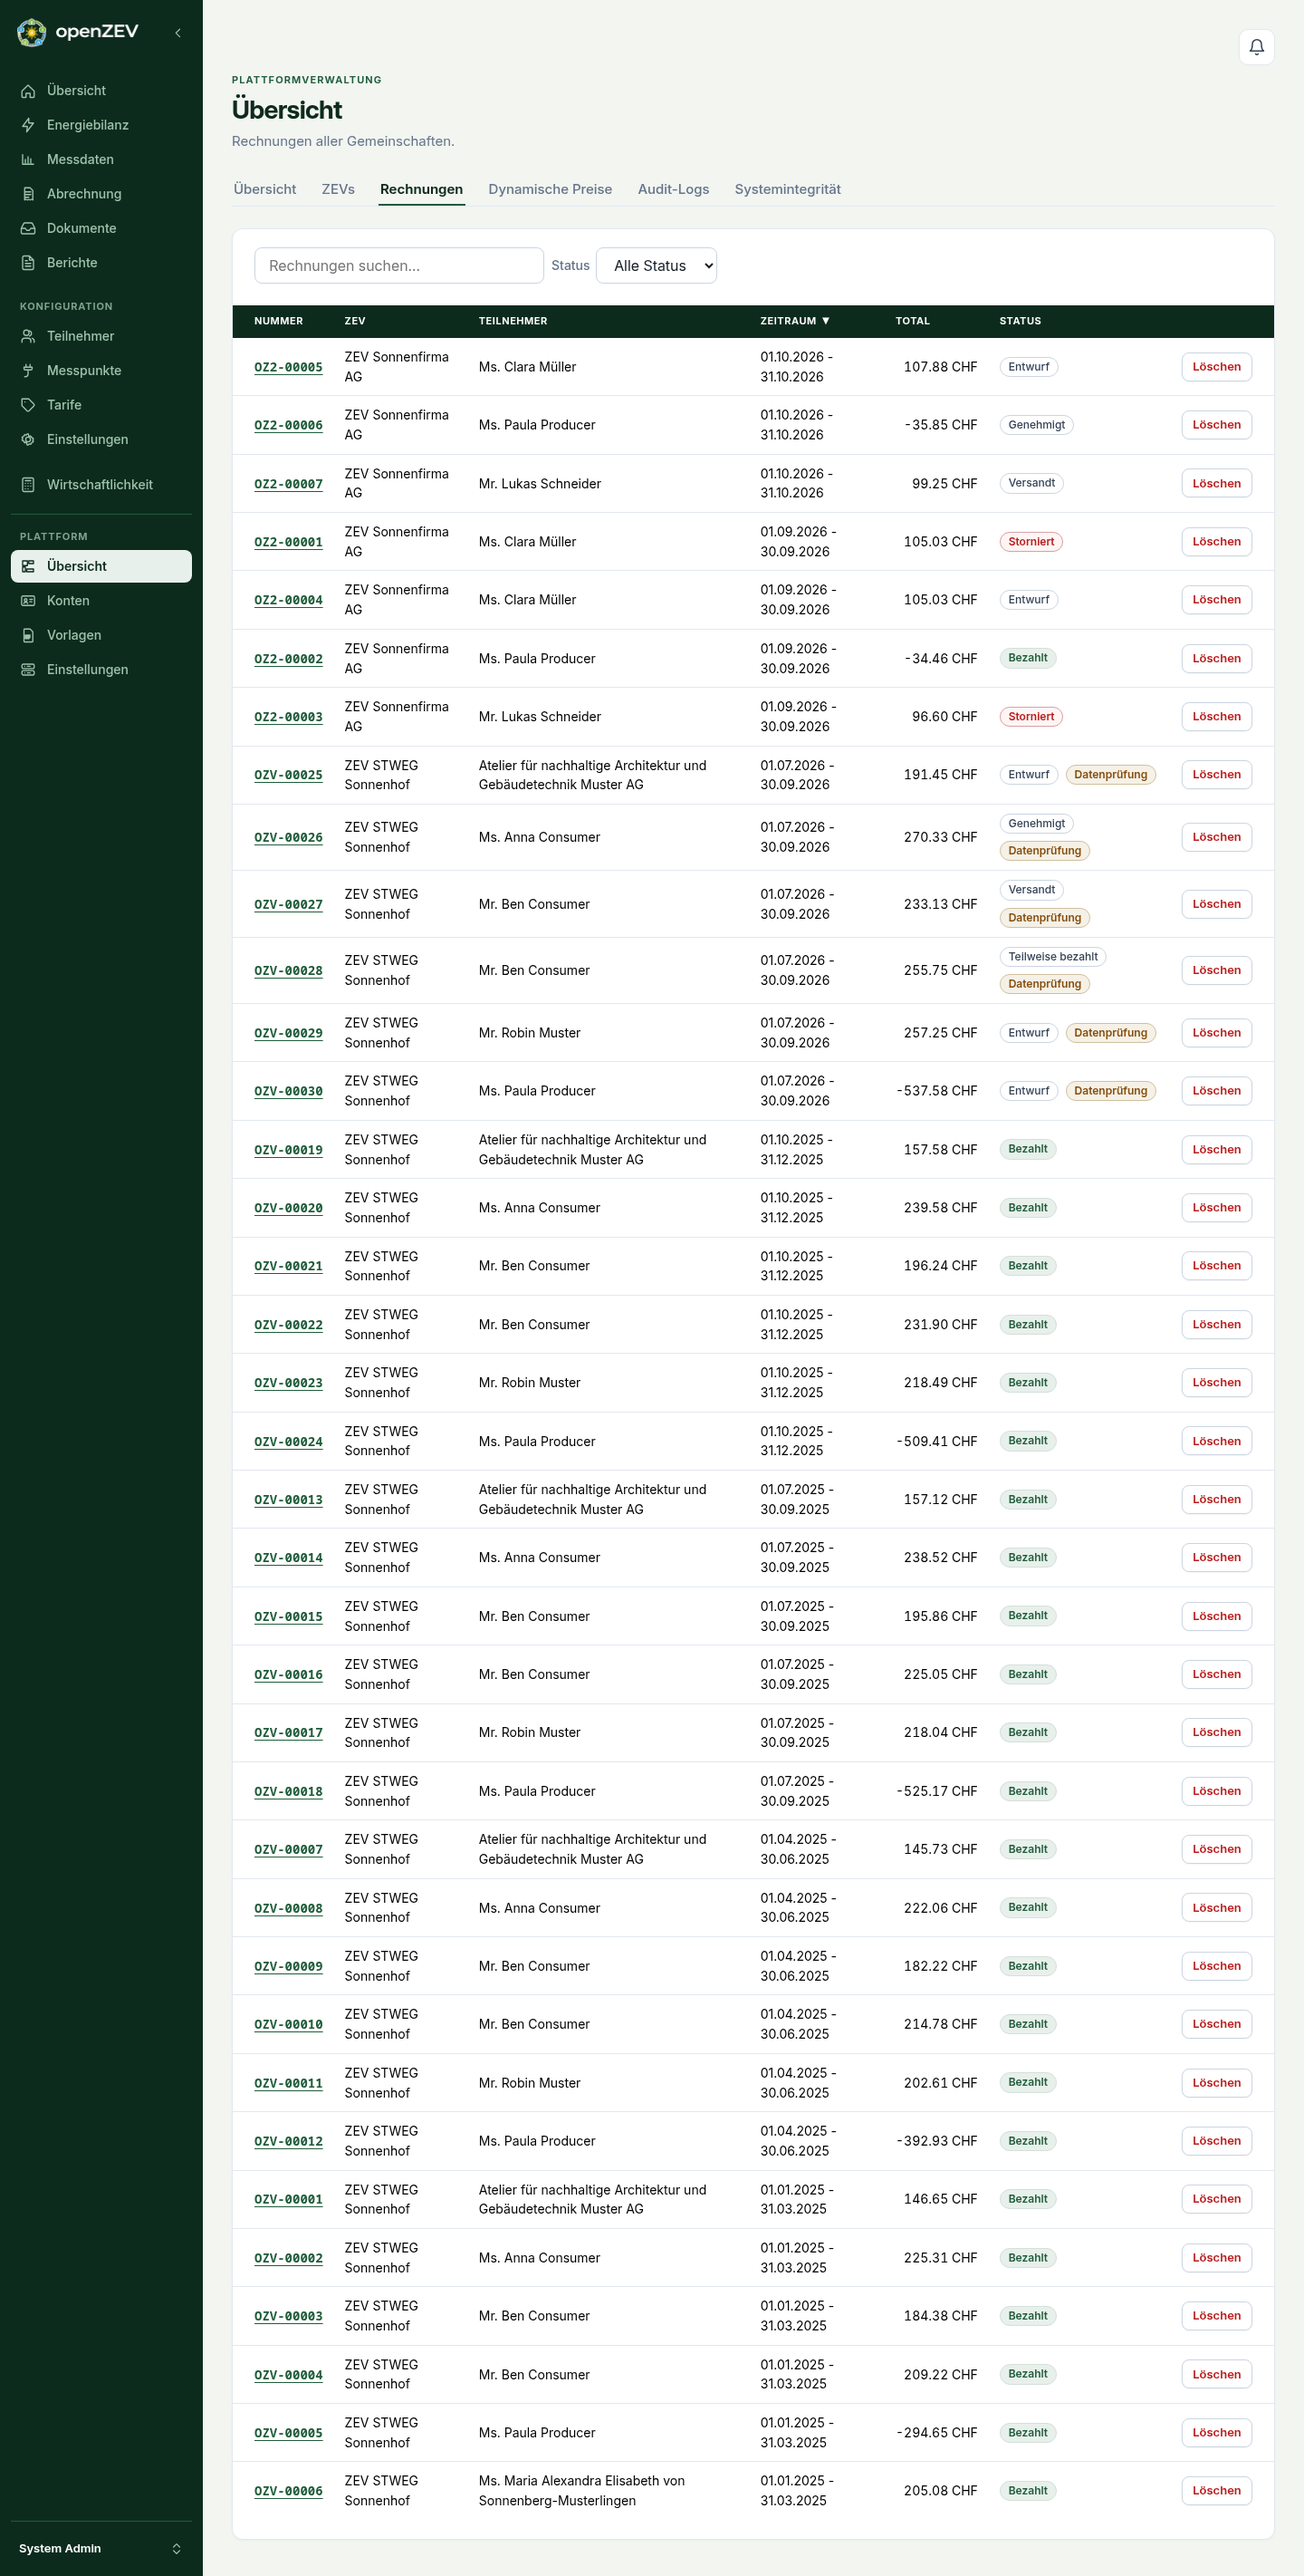
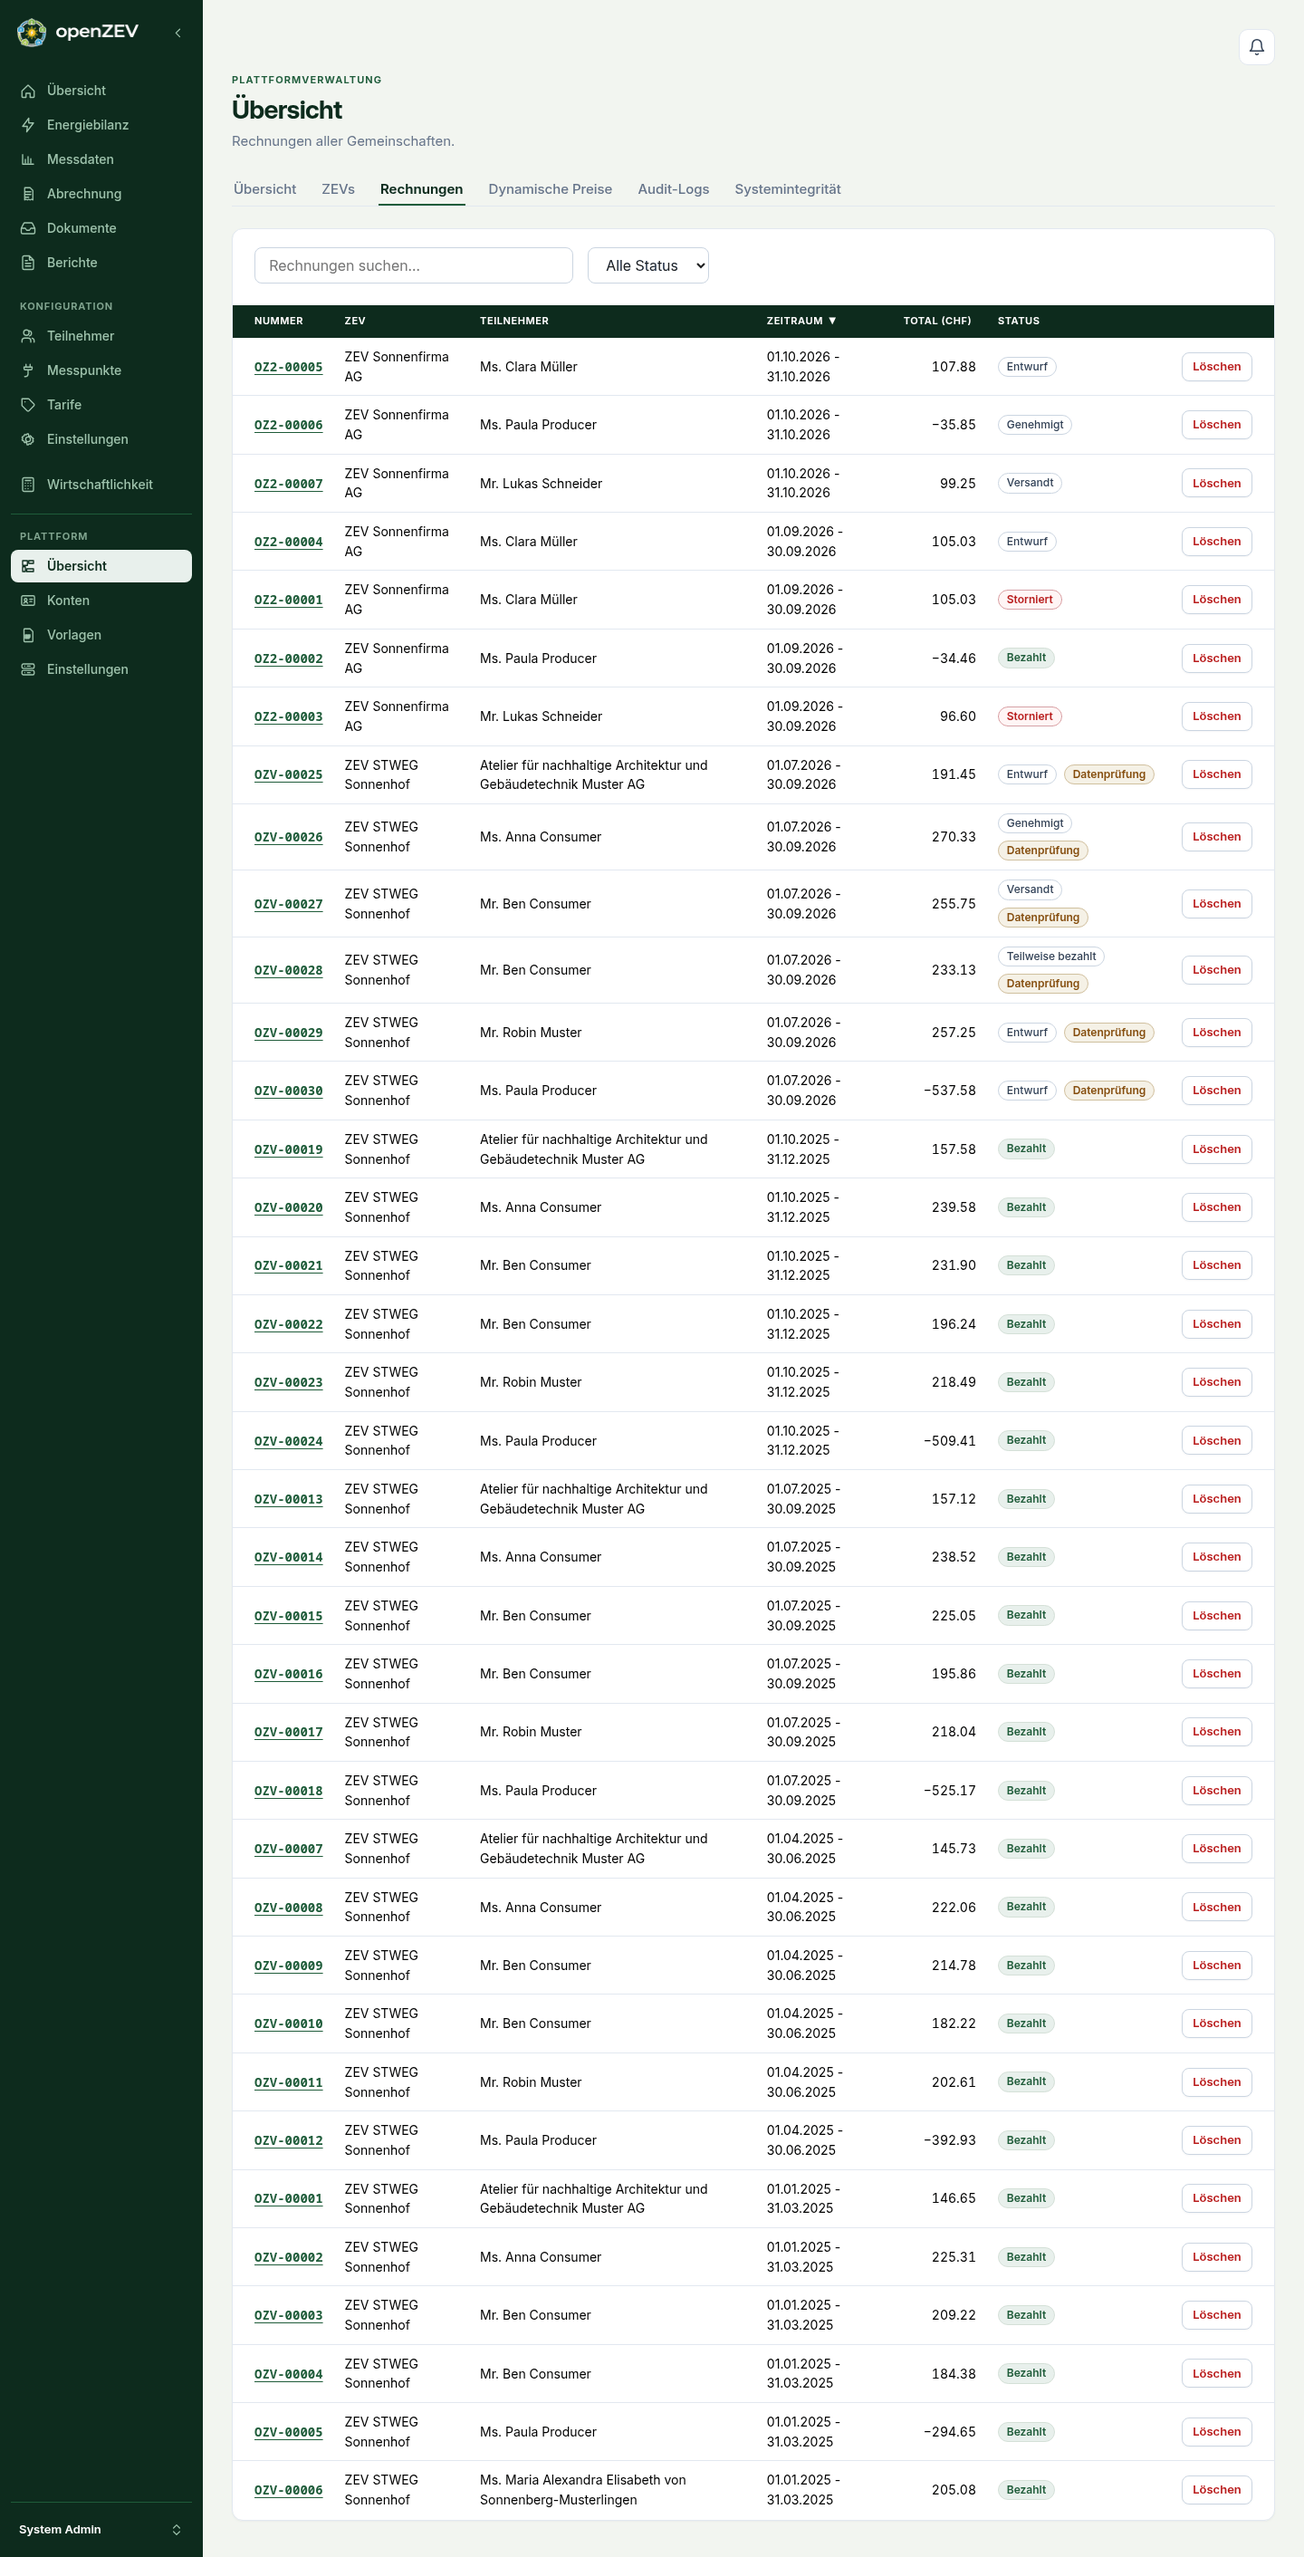
fix(invoices): name CHF in the admin total header, not each cell
The admin invoice list printed the raw API string with a trailing
currency ("129.00 CHF") in every row. It now follows the period table and
the invoice PDF: the header says "Total (CHF)" and cells show the bare
amount through InvoiceAmount (typographic minus for credit totals).

While here: the period cell reuses the memoised period_display, the
redundant numeric:false meta is dropped, and the filters use the shared
.list-filters row instead of inline styles (with aria-labels on the
search and status controls). The test checks the amount cell once and
order/search by invoice number, without the needless 20 ms sleep.

diff --git a/frontend/src/pages/AdminInvoicesPage.tsx b/frontend/src/pages/AdminInvoicesPage.tsx
@@ -9,7 +9,7 @@ import { deleteInvoice, fetchInvoices } from '../lib/api/invoices'
 import { formatApiError } from '../lib/api/errors'
 import { queryKeys } from '../lib/api/queryKeys'
 import { useToast } from '../lib/toast'
-import { InvoiceActionButton, InvoiceLink, InvoiceStatusBadge } from '../components/InvoicePresentation'
+import { InvoiceActionButton, InvoiceAmount, InvoiceLink, InvoiceStatusBadge } from '../components/InvoicePresentation'
 import type { Invoice } from '../types/api'
 
 // Stable empty array so the useMemo below keeps a consistent dependency reference.
@@ -96,13 +96,13 @@ export function AdminInvoicesContent() {
             {
                 accessorKey: 'period_sort',
                 header: t('adminInvoices.period'),
-                cell: (ctx) => `${formatShortDate(ctx.row.original.period_start, settings)} - ${formatShortDate(ctx.row.original.period_end, settings)}`,
+                cell: (ctx) => ctx.row.original.period_display,
             },
             {
                 accessorKey: 'total_value',
                 header: t('adminInvoices.total'),
                 meta: { numeric: true },
-                cell: (ctx) => `${ctx.row.original.total_chf} CHF`,
+                cell: (ctx) => <InvoiceAmount value={ctx.row.original.total_chf} currency={false} />,
             },
             {
                 accessorKey: 'status',
@@ -130,7 +130,6 @@ export function AdminInvoicesContent() {
                 id: 'actions',
                 header: '',
                 enableSorting: false,
-                meta: { numeric: false },
                 cell: (ctx) => (
                     <InvoiceActionButton action={{
                         label: t('adminInvoices.delete'),
@@ -141,7 +140,7 @@ export function AdminInvoicesContent() {
                 ),
             },
         ],
-        [t, settings, handleDelete, deleteMutation.isPending],
+        [t, handleDelete, deleteMutation.isPending],
     )
 
     return (
@@ -153,34 +152,31 @@ export function AdminInvoicesContent() {
                     <p className="muted">{t('adminInvoices.empty')}</p>
                 )}
                 {invoices.length > 0 && (
-                    <div className="page-stack sheet-table-body" style={{ width: '100%' }}>
-                        <div className="actions-row" style={{ flexWrap: 'wrap' }}>
+                    <div className="page-stack sheet-table-body">
+                        <div className="list-filters">
                             <input
                                 type="search"
                                 placeholder={t('adminInvoices.quickFilterPlaceholder')}
+                                aria-label={t('adminInvoices.quickFilterPlaceholder')}
                                 value={search}
                                 onChange={(e) => setSearch(e.target.value)}
-                                style={{ maxWidth: '20rem' }}
                             />
-                            <label style={{ display: 'inline-flex', alignItems: 'center', gap: '0.4rem' }}>
-                                <span className="muted">{t('adminInvoices.status')}</span>
-                                <select
-                                    value={String(columnFilters.find((f) => f.id === 'status')?.value ?? '')}
-                                    onChange={(e) =>
-                                        setColumnFilters(
-                                            e.target.value
-                                                ? [{ id: 'status', value: e.target.value }]
-                                                : [],
-                                        )
-                                    }
-                                    style={{ width: 'auto' }}
-                                >
-                                    <option value="">{t('adminInvoices.allStatuses')}</option>
-                                    {(['draft', 'approved', 'sent', 'paid', 'cancelled'] as const).map((value) => (
-                                        <option key={value} value={value}>{t(`invoice.status.${value}`)}</option>
-                                    ))}
-                                </select>
-                            </label>
+                            <select
+                                aria-label={t('adminInvoices.status')}
+                                value={String(columnFilters.find((f) => f.id === 'status')?.value ?? '')}
+                                onChange={(e) =>
+                                    setColumnFilters(
+                                        e.target.value
+                                            ? [{ id: 'status', value: e.target.value }]
+                                            : [],
+                                    )
+                                }
+                            >
+                                <option value="">{t('adminInvoices.allStatuses')}</option>
+                                {(['draft', 'approved', 'sent', 'paid', 'cancelled'] as const).map((value) => (
+                                    <option key={value} value={value}>{t(`invoice.status.${value}`)}</option>
+                                ))}
+                            </select>
                         </div>
                         <DataTable
                             data={filteredRows}

diff --git a/frontend/tests/invoice-presentation.test.ts b/frontend/tests/invoice-presentation.test.ts
@@ -159,18 +159,20 @@ describe('shared invoice presentation', () => {
         const sort = [...container.querySelectorAll<HTMLButtonElement>('.data-table-sort')]
             .find(button => button.textContent?.includes('adminInvoices.total'))!
         await act(async () => sort.click())
-        expect(container.querySelector('tbody tr')?.textContent).toContain('129.00 CHF')
+        const firstRow = () => container.querySelector('tbody tr')!
+        expect(firstRow().querySelector('code')?.textContent).toBe('INV-129')
+        // The header names the currency; the cell carries only the amount.
+        expect(firstRow().querySelector('td.numeric')?.textContent).toBe('129.00')
         await act(async () => container.querySelector<HTMLButtonElement>('[aria-label="common.pagination.next"]')!.click())
         expect(container.querySelectorAll('tbody tr')).toHaveLength(30)
-        expect(container.querySelector('tbody tr')?.textContent).toContain('29.00 CHF')
+        expect(firstRow().querySelector('code')?.textContent).toBe('INV-29')
         const input = container.querySelector('input[type="search"]') as HTMLInputElement
         await act(async () => {
             Object.getOwnPropertyDescriptor(HTMLInputElement.prototype, 'value')!.set!.call(input, 'INV-29')
             input.dispatchEvent(new Event('input', { bubbles: true }))
         })
-        await act(async () => { await new Promise(resolve => setTimeout(resolve, 20)) })
         expect(container.querySelectorAll('tbody tr')).toHaveLength(1)
-        expect(container.querySelector('tbody')?.textContent).toContain('29.00 CHF')
+        expect(firstRow().querySelector('code')?.textContent).toBe('INV-29')
         expect(container.querySelector('.data-table-footer')).toBeNull()
     })
 })

diff --git a/frontend/src/i18n/locales/fr.ts b/frontend/src/i18n/locales/fr.ts
@@ -5192,7 +5192,7 @@ export const fr = {
         zev: 'RCP',
         participant: 'Participant',
         period: 'Période',
-        total: 'Total',
+        total: 'Total (CHF)',
         status: 'Statut',
         allStatuses: 'Tous les statuts',
         quickFilterPlaceholder: 'Rechercher des factures…',

diff --git a/frontend/src/i18n/locales/it.ts b/frontend/src/i18n/locales/it.ts
@@ -5192,7 +5192,7 @@ export const it = {
         zev: 'RCP',
         participant: 'Partecipante',
         period: 'Periodo',
-        total: 'Totale',
+        total: 'Totale (CHF)',
         status: 'Stato',
         allStatuses: 'Tutti gli stati',
         quickFilterPlaceholder: 'Cerca fatture…',

diff --git a/frontend/src/i18n/locales/de.ts b/frontend/src/i18n/locales/de.ts
@@ -5192,7 +5192,7 @@ export const de = {
         zev: 'ZEV',
         participant: 'Teilnehmer',
         period: 'Zeitraum',
-        total: 'Total',
+        total: 'Total (CHF)',
         status: 'Status',
         allStatuses: 'Alle Status',
         quickFilterPlaceholder: 'Rechnungen suchen…',

diff --git a/frontend/src/i18n/locales/en.ts b/frontend/src/i18n/locales/en.ts
@@ -5203,7 +5203,7 @@ export const en = {
         zev: 'ZEV',
         participant: 'Participant',
         period: 'Period',
-        total: 'Total',
+        total: 'Total (CHF)',
         status: 'Status',
         allStatuses: 'All statuses',
         quickFilterPlaceholder: 'Search invoices…',

diff --git a/docs/specs/2026-08-ui-redesign-pdf-style.md b/docs/specs/2026-08-ui-redesign-pdf-style.md
@@ -424,11 +424,13 @@ the loaded current-scope list before querying it. Invoice URLs accept historical
 ranges from community start; their default remains the previous complete period
 bounded by the first aligned period. Shared URL navigation retains unrelated
 query parameters/hash and the hubs' existing history/mounting contracts.
-Invoice lists reuse `InvoicePresentation` cells and links, with `formatChf`
-amounts in personal/period lists, translated missing-day plurals and labelled
-PDF controls. Admin invoice totals retain the trailing currency format
-(`114.94 CHF`). Row models, permissions, workflow eligibility and pagination
-stay consumer-owned.
+Invoice lists reuse `InvoicePresentation` cells and links, translated
+missing-day plurals and labelled PDF controls. The period and admin tables
+name the currency in the amount header (`Total (CHF)`) and show the bare
+amount (`114.94`); the period rows set CHF inline only in card mode, where
+that header is hidden. The documents list keeps `CHF 114.94` in each cell.
+Row models, permissions, workflow eligibility and pagination stay with each
+list.
 
 #### Dashboard
 

diff --git a/docs/user-guide/14-admin-console.md b/docs/user-guide/14-admin-console.md
@@ -525,15 +525,15 @@ The admin invoice page provides a searchable, sortable table of **every invoice 
 | **ZEV** | The ZEV the invoice belongs to |
 | **Participant** | Participant name |
 | **Period** | Billing period date range |
-| **Total** | Invoice total in CHF |
+| **Total (CHF)** | Invoice total; the header names the currency, so the cells show the amount only |
 | **Status** | Badge showing `Draft`, `Approved`, `Sent`, `Paid`, or `Cancelled` |
 | **Actions** | Delete button |
 
 ### Searching and Filtering
 
-- Use the **quick filter** search bar in the toolbar to search across all columns.
+- Use the **search** field above the table to find invoices by number, ZEV, participant or period.
+- Use the **status** dropdown beside it to show only invoices in one status.
 - Click on a column header to **sort** by that column.
-- Use column-level filters for more targeted searching (e.g., filter by status using the dropdown).
 
 ### Deleting Invoices
 
